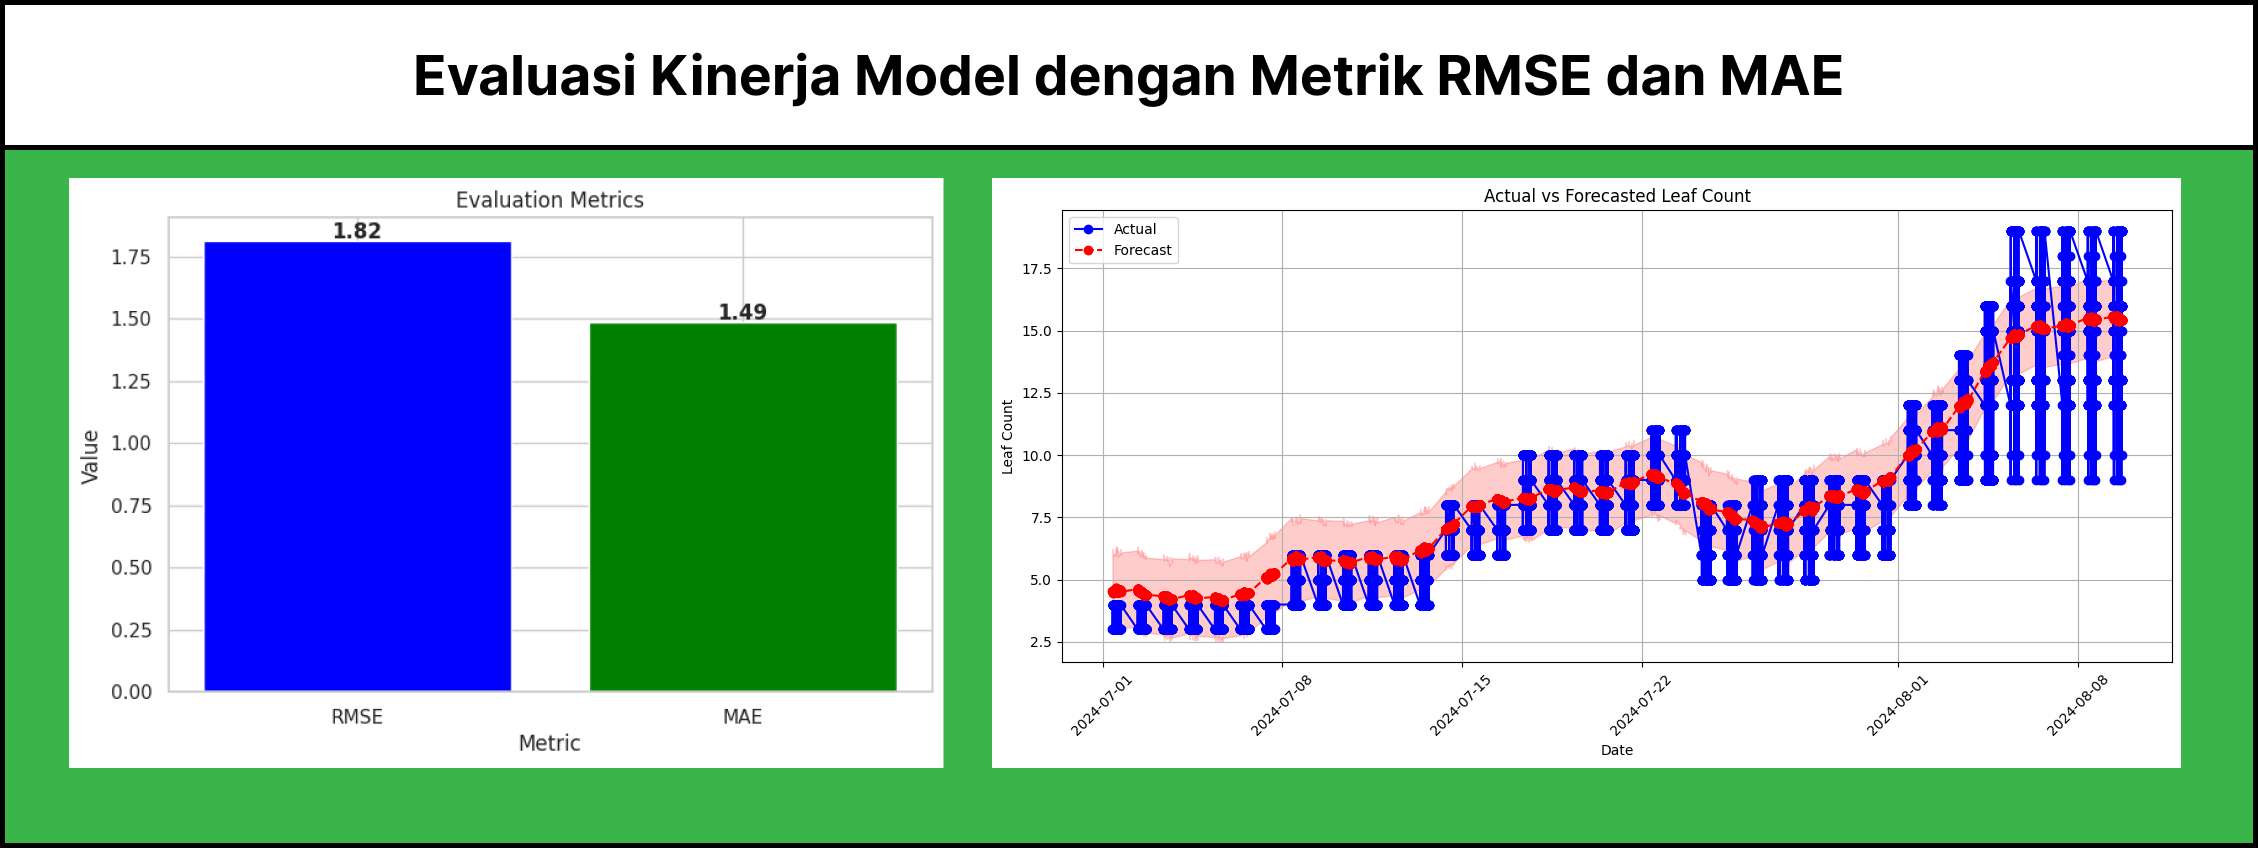
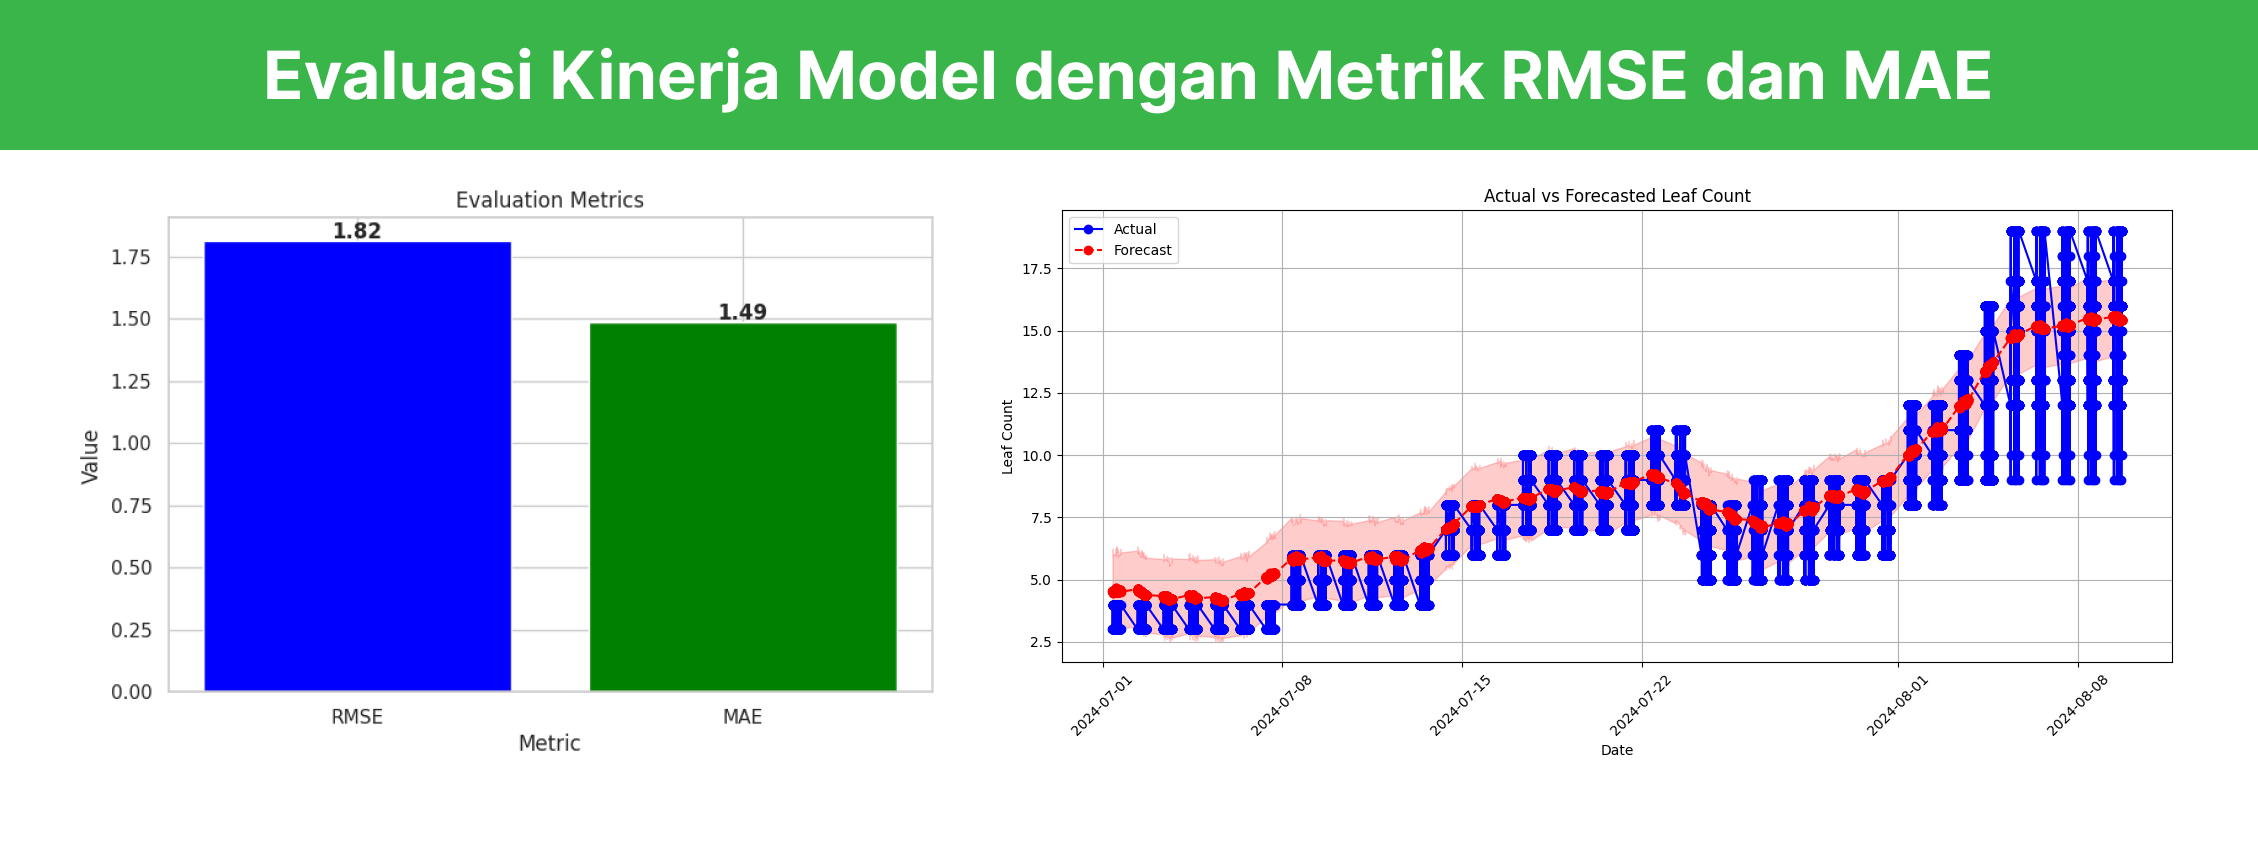
update: evaluasi image, and delete feature to customize weight of plants

diff --git a/Home.py b/Home.py
@@ -27,7 +27,7 @@ def inject_custom_css():
             background-color: #ffffff;
         }
         </style>
-        <img src='https://github.com/Vinzzztty/Forecasting-Hidroponik/blob/V2/assets/banner_800.png?raw=true' class='header-image'/>
+        <img src='https://github.com/Vinzzztty/Forecasting-Hidroponik/blob/V2/assets/new_banner_800.png?raw=true' class='header-image'/>
         """,
         unsafe_allow_html=True,
     )
@@ -37,7 +37,7 @@ def render_sidebar():
     """Render the sidebar with navigation."""
     with st.sidebar:
         st.markdown(
-            "![Logo](https://github.com/Vinzzztty/Forecasting-Hidroponik/blob/V2/assets/hijau.png?raw=true)"
+            "![Logo](https://github.com/Vinzzztty/Forecasting-Hidroponik/blob/V2/assets/new_hijau.png?raw=true)"
         )
 
 
@@ -67,27 +67,27 @@ def main():
 
     # Set up the two columns layout with different widths
     st.header("🔍 Kesimpulan")
-    col1, col2 = st.columns([3, 7])  # 70% and 30%
+    # col1, col2 = st.columns([3, 7])  # 70% and 30%
 
     # Content for the first column
-    with col1:
-        st.markdown(
-            "Model forecasting menggunakan algoritma Prophet menghasilkan metrik evaluasi sebagai berikut:"
-        )
+    # with col1:
+    st.markdown(
+        "Model forecasting menggunakan algoritma Prophet menghasilkan metrik evaluasi sebagai berikut:"
+    )
 
-        st.markdown("- **RMSE (Root Mean Square Error)**: 1.82")
-        st.markdown("- **MAE (Mean Absolute Error)**: 1.49")
+    st.markdown("- **RMSE (Root Mean Square Error)**: 1.82")
+    st.markdown("- **MAE (Mean Absolute Error)**: 1.49")
 
-        st.markdown(
-            "Hasil menunjukkan bahwa model memiliki akurasi yang baik dengan kesalahan prediksi yang relatif rendah."
-        )
+    st.markdown(
+        "Hasil menunjukkan bahwa model memiliki akurasi yang baik dengan kesalahan prediksi yang relatif rendah."
+    )
 
     # Content for the second column
-    with col2:
-        st.image(
-            "https://github.com/Vinzzztty/Forecasting-Hidroponik/blob/V2/assets/evaluasi_model.png?raw=true",
-            caption="Evaluasi Model",
-        )
+    # with col2:
+    st.image(
+        "https://github.com/Vinzzztty/Forecasting-Hidroponik/blob/V2/assets/evaluasi_model.png?raw=true",
+        caption="Evaluasi Model",
+    )
 
 
 if __name__ == "__main__":

diff --git a/pages/2-Forecasting.py b/pages/2-Forecasting.py
@@ -44,7 +44,7 @@ def render_sidebar():
     """Render the sidebar with navigation."""
     with st.sidebar:
         st.markdown(
-            "![Logo](https://github.com/Vinzzztty/Forecasting-Hidroponik/blob/V2/assets/hijau.png?raw=true)"
+            "![Logo](https://github.com/Vinzzztty/Forecasting-Hidroponik/blob/V2/assets/new_hijau.png?raw=true)"
         )
 
 
@@ -196,19 +196,19 @@ def main():
 
             periods = MAX_DAY - unique_days
 
-            # Add select box for the height of the tanaman
-            height_option = st.selectbox(
-                "📏 Pilih berat tanaman (gram):", options=[100, 150]
-            )
+            # # Add select box for the height of the tanaman
+            # height_option = st.selectbox(
+            #     "📏 Pilih berat tanaman (gram):", options=[100, 150]
+            # )
 
-            # Set cap value based on the selected height option
-            new_cap = 18 if height_option == 100 else 23
+            # # Set cap value based on the selected height option
+            # new_cap = 18 if height_option == 100 else 23
 
             # st.write(f"Cap value set to: {new_cap}")
 
             future = model.create_future_dataframe(df_prophet, periods=periods)
 
-            future["cap"] = new_cap
+            future["cap"] = 18
 
             forecast = model.make_predictions(models, future)
 
@@ -344,19 +344,19 @@ def main():
 
         periods = MAX_DAY - unique_days
 
-        # Add select box for the height of the tanaman
-        height_option = st.selectbox(
-            "📏 Pilih berat tanaman (gram):", options=[100, 150]
-        )
+        # # Add select box for the height of the tanaman
+        # height_option = st.selectbox(
+        #     "📏 Pilih berat tanaman (gram):", options=[100, 150]
+        # )
 
-        # Set cap value based on the selected height option
-        new_cap = 18 if height_option == 100 else 23
+        # # Set cap value based on the selected height option
+        # new_cap = 18 if height_option == 100 else 23
 
         # st.write(f"Cap value set to: {new_cap}")
 
         future = model.create_future_dataframe(df_prophet, periods=periods)
 
-        future["cap"] = new_cap
+        future["cap"] = 18
 
         forecast = model.make_predictions(models, future)
 

diff --git a/pages/1-How_to_works.py b/pages/1-How_to_works.py
@@ -36,7 +36,7 @@ def render_sidebar():
     """Render the sidebar with navigation."""
     with st.sidebar:
         st.markdown(
-            "![Logo](https://github.com/Vinzzztty/Forecasting-Hidroponik/blob/V2/assets/hijau.png?raw=true)"
+            "![Logo](https://github.com/Vinzzztty/Forecasting-Hidroponik/blob/V2/assets/new_hijau.png?raw=true)"
         )
 
 
